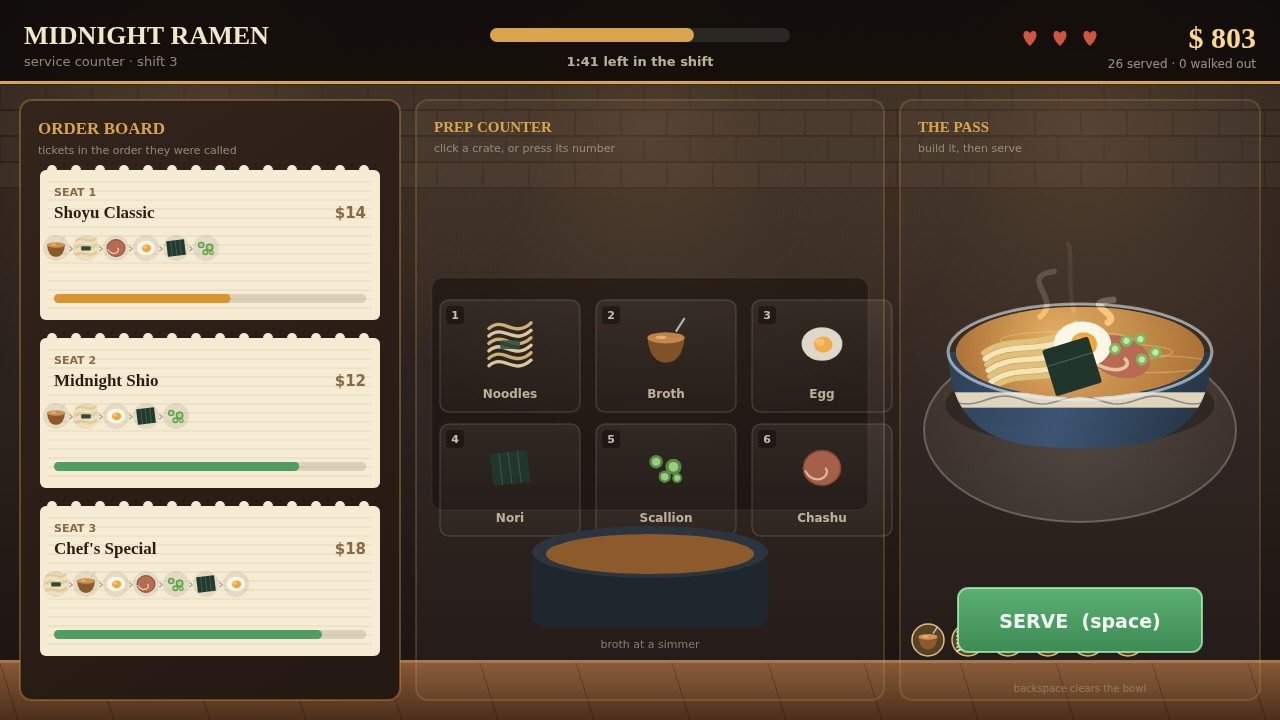
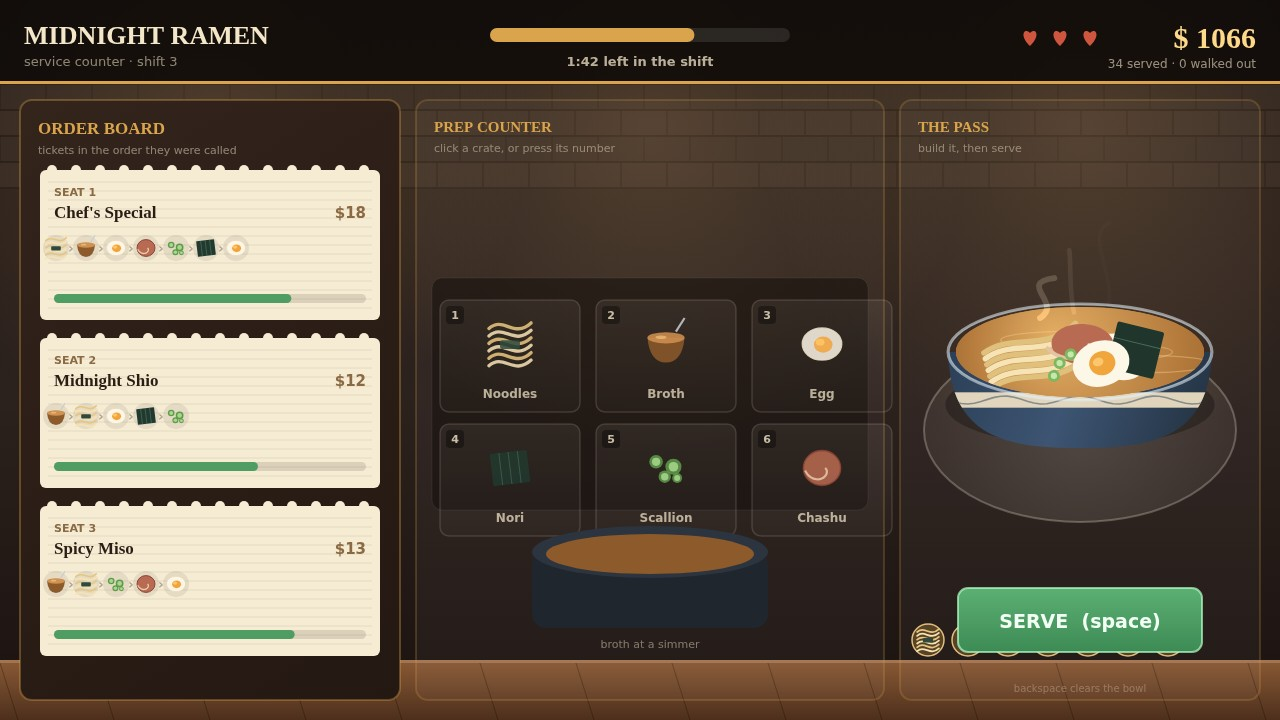
rules: ramp patience across the shift, cut prep thrash, and add a tuning sim
The kitchen was winnable by mashing one key: patience never tightened and the
pass had no real cost. Patience now slides from forgiving at opening to tight at
closing, prep time is shorter so a good cook is fluent but a slow one is punished,
and tools/simulate.mjs sweeps reaction times so the difficulty curve is measured
rather than guessed.

diff --git a/game/src/world.js b/game/src/world.js
@@ -5,6 +5,7 @@
 import {
   INGREDIENTS,
   PATIENCE_FLOOR,
+  PATIENCE_RAMP_END,
   PATIENCE_START,
   PREP_TIME,
   RECIPES,
@@ -37,15 +38,21 @@ function mulberry32(seed) {
   };
 }
 
-/** How long a customer waits, before the rush shortens it: a recipe's step count sets the base. */
-function patienceFor(recipe, rand) {
-  const base = PATIENCE_START - recipe.steps.length * 1.6;
-  return Math.max(PATIENCE_FLOOR, base + rand() * 4 - 2);
+/** The night's difficulty multiplier: forgiving at opening, tight by closing time. */
+function rampFor(at) {
+  const progress = Math.min(1, Math.max(0, at / SHIFT_SECONDS));
+  return 1 - (1 - PATIENCE_RAMP_END) * progress;
+}
+
+/** How long a customer waits: a recipe's step count sets the base, the ramp tightens it. */
+function patienceFor(recipe, rand, at) {
+  const base = PATIENCE_START - recipe.steps.length * 1.4;
+  return Math.max(PATIENCE_FLOOR, (base + rand() * 4 - 2) * rampFor(at));
 }
 
 /** A ticket: the recipe plus the clock it must be served before, and what a fast serve pays. */
 function makeTicket(recipe, rand, at) {
-  const patience = patienceFor(recipe, rand);
+  const patience = patienceFor(recipe, rand, at);
   return {
     id: nextTicketId++,
     recipe,

diff --git a/game/src/config.js b/game/src/config.js
@@ -56,16 +56,23 @@ export const RECIPES = [
   { name: "Chef's Special", steps: ['noodles', 'broth', 'egg', 'chashu', 'scallion', 'nori', 'egg'], price: 18 },
 ];
 
-export const PATIENCE_START = 30;
-export const PATIENCE_FLOOR = 19;
+export const PATIENCE_START = 26;
+export const PATIENCE_FLOOR = 8;
 export const WRONG_PENALTY = 4;
+
+/**
+ * The night gets harder the longer the shop is open. Patience is multiplied by a ramp that slides
+ * from 1.0 at opening to this at closing time, so the first orders are forgiving and the last hour
+ * is genuinely tight. Without it the kitchen is winnable by holding one key down.
+ */
+export const PATIENCE_RAMP_END = 0.62;
 
 /**
  * Seconds the pass is busy after each ingredient lands. The cook cannot stack the next crate until
  * the station is free again — this is what makes a bowl a six-second job rather than a six-click one,
  * and it is the only reason a busy night can outrun a good cook.
  */
-export const PREP_TIME = 0.32;
+export const PREP_TIME = 0.24;
 
 export const COLORS = {
   ink: '#161311',
